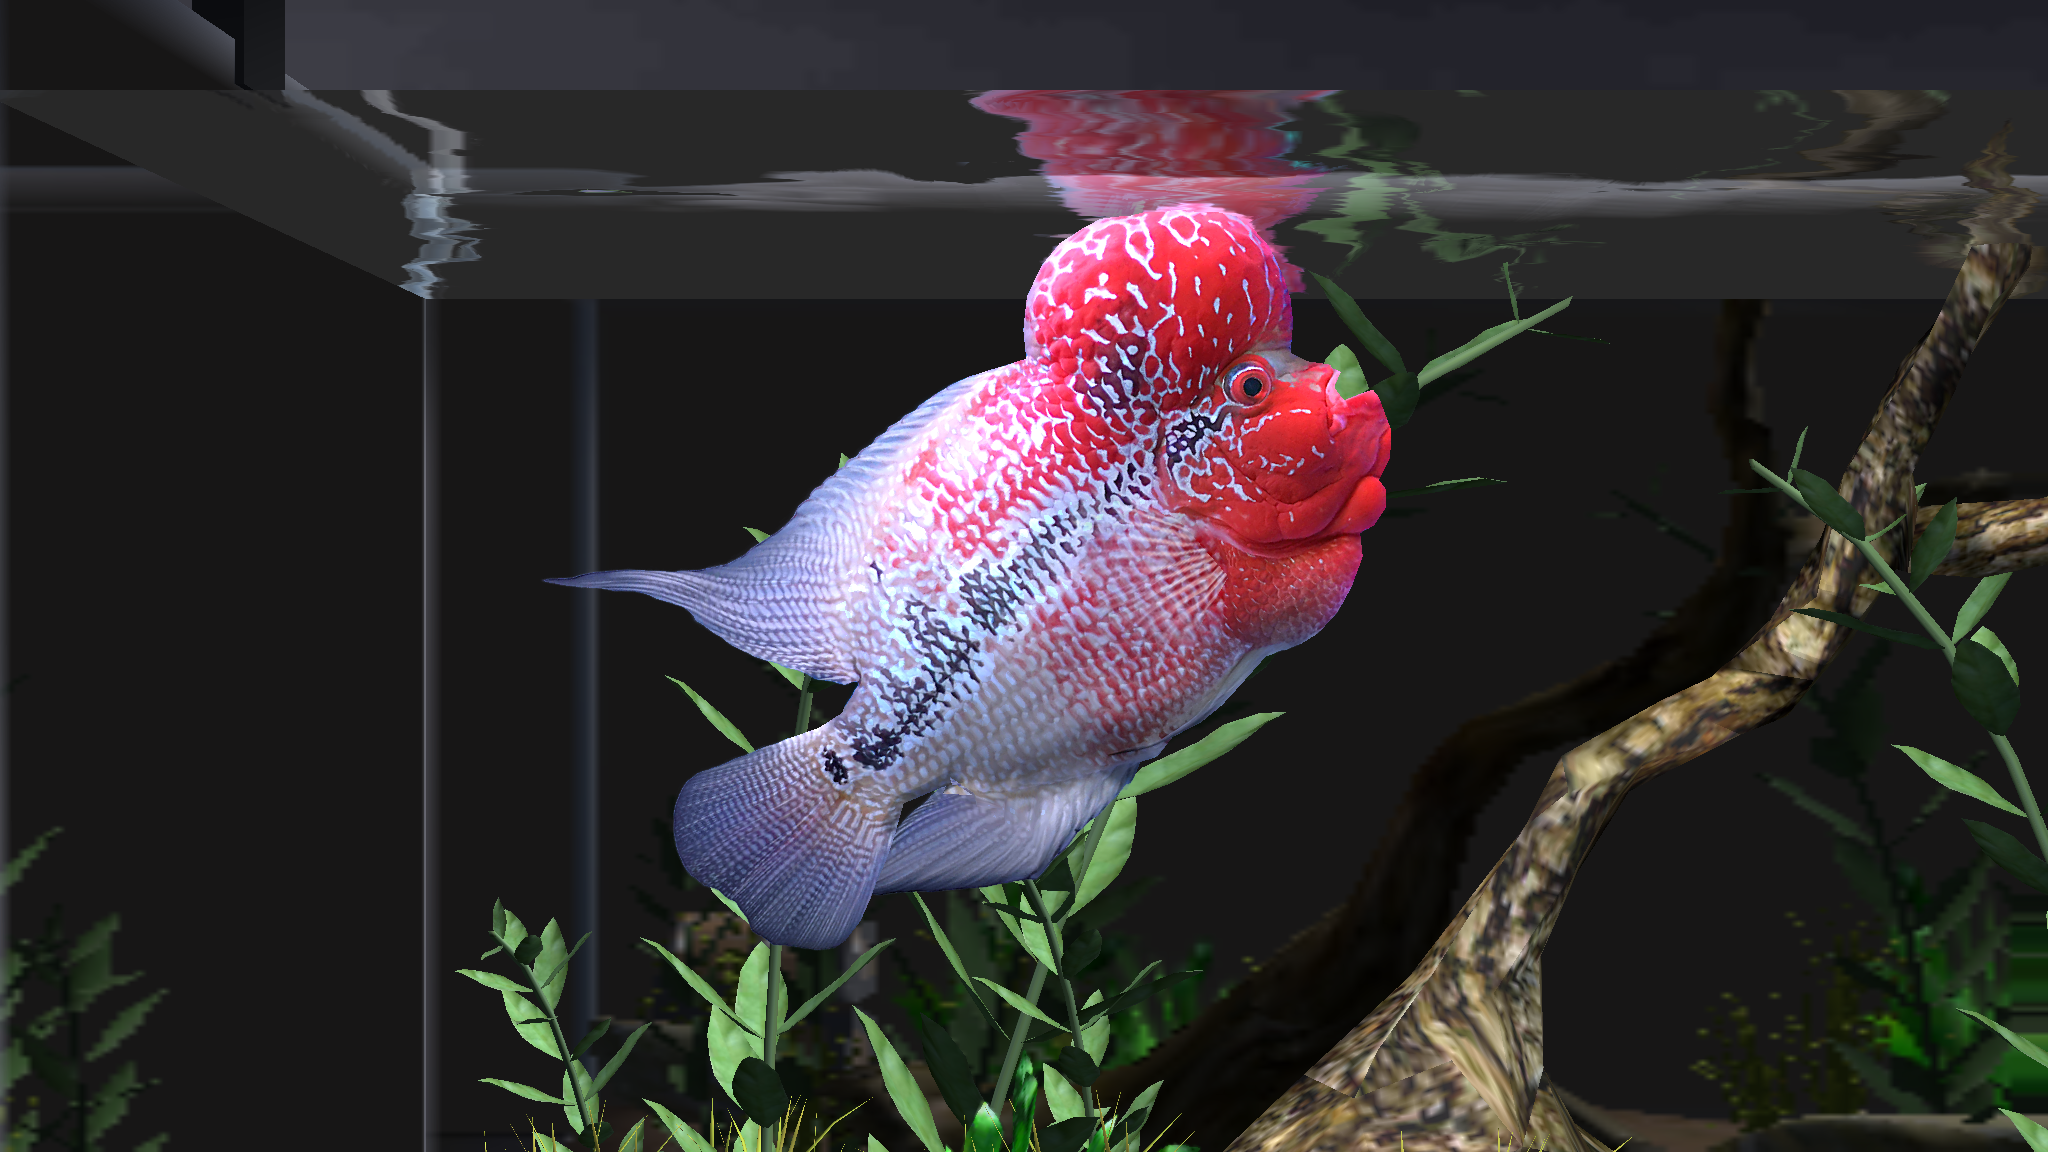
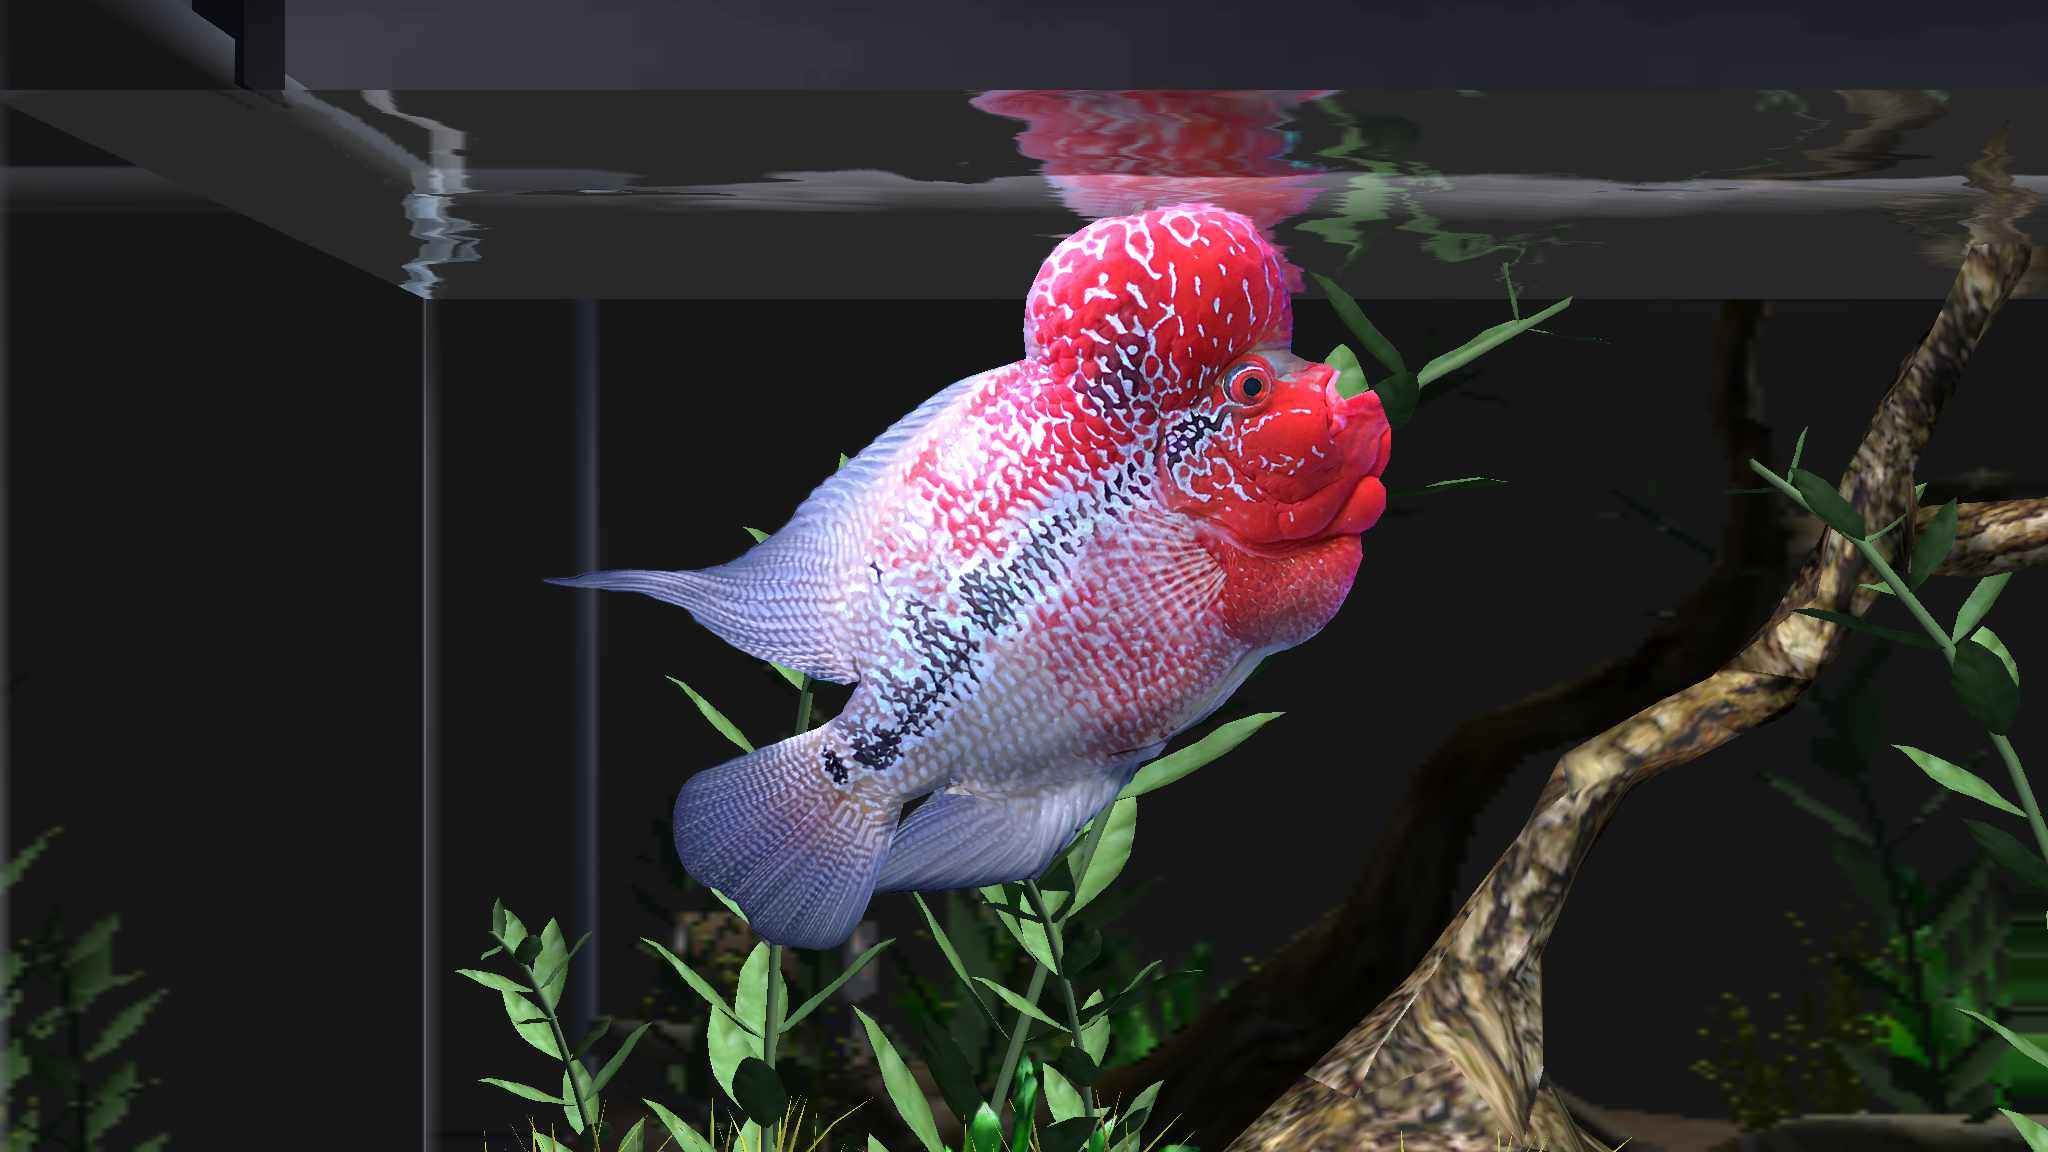
updated all images to smaller size

diff --git a/project-1.html b/project-1.html
@@ -81,35 +81,35 @@
 					</a>
 				</div>
 				<div class="mix col-md-6 col-lg-3 digital">
-					<a href="img/projects/project-1/1.png" class="popup portfolio-item pi-style2 set-bg" data-setbg="img/projects/project-1/1.png">
+					<a href="img/projects/project-1/1.jpg" class="popup portfolio-item pi-style2 set-bg" data-setbg="img/projects/project-1/1.jpg">
 						<div class="pi-inner">
 							<h2>+ More</h2>
 						</div>						
 					</a>
 				</div>
 				<div class="mix col-md-6 col-lg-3 rened">
-					<a href="img/projects/project-1/2.png" class="popup portfolio-item pi-style2 set-bg" data-setbg="img/projects/project-1/2.png">
+					<a href="img/projects/project-1/2.jpg" class="popup portfolio-item pi-style2 set-bg" data-setbg="img/projects/project-1/2.jpg">
 						<div class="pi-inner">
 							<h2>+ More</h2>
 						</div>						
 					</a>
 				</div>
 				<div class="mix col-md-6 col-lg-3 brand">
-					<a href="img/projects/project-1/3.png" class="popup portfolio-item pi-style2 set-bg" data-setbg="img/projects/project-1/3.png">
+					<a href="img/projects/project-1/3.jpg" class="popup portfolio-item pi-style2 set-bg" data-setbg="img/projects/project-1/3.jpg">
 						<div class="pi-inner">
 							<h2>+ More</h2>
 						</div>						
 					</a>
 				</div>
 				<div class="mix col-md-6 col-lg-3 brand">
-					<a href="img/projects/project-1/4.png" class="popup portfolio-item pi-style2 set-bg" data-setbg="img/projects/project-1/4.png">
+					<a href="img/projects/project-1/4.jpg" class="popup portfolio-item pi-style2 set-bg" data-setbg="img/projects/project-1/4.jpg">
 						<div class="pi-inner">
 							<h2>+ More</h2>
 						</div>						
 					</a>
 				</div>
 				<div class="mix col-md-6 col-lg-3 rened">
-					<a href="img/projects/project-1/5.png" class="popup portfolio-item pi-style2 set-bg" data-setbg="img/projects/project-1/5.png">
+					<a href="img/projects/project-1/5.jpg" class="popup portfolio-item pi-style2 set-bg" data-setbg="img/projects/project-1/5.jpg">
 						<div class="pi-inner">
 							<h2>+ More</h2>
 						</div>						
